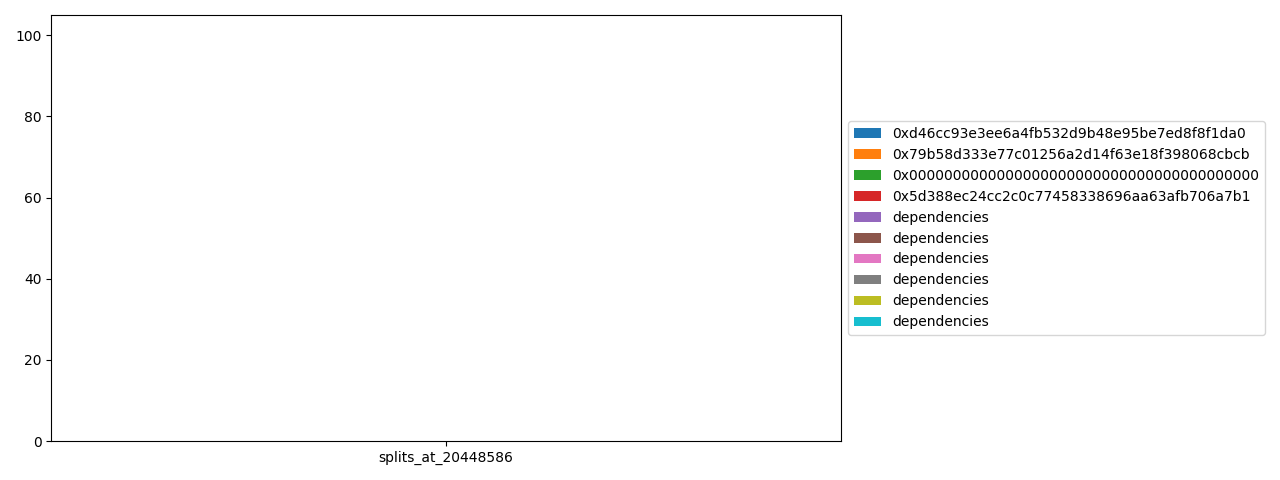
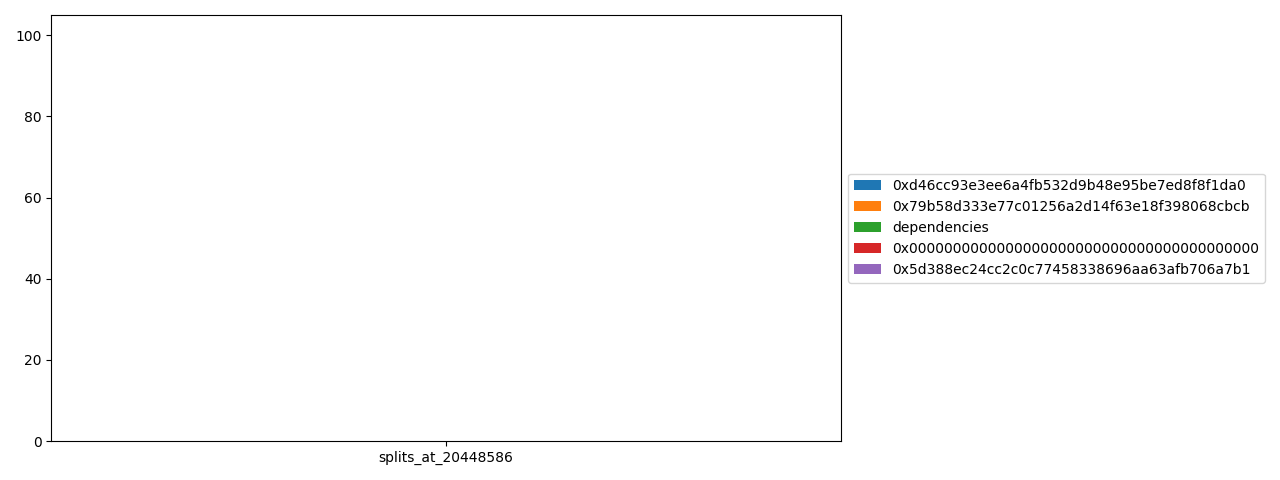
merge dependencies into one group
#55

Changed region(s): [[0.6562, 0.25, 1.0, 0.6875]]

diff --git a/drips/charts/generate-charts.py b/drips/charts/generate-charts.py
@@ -78,21 +78,28 @@ for repo in repos:
     print('splits_csv.columns:', splits_csv.columns)
     print('splits_csv.columns[1:]:', splits_csv.columns[1:])
 
+
+    splits_set_event_blocks = splits_csv.columns[1:].values
+    # print('splits_set_event_blocks:', splits_set_event_blocks)
+
+    splits_csv = splits_csv.apply(format_ethereum_address, axis='columns')
+    # print('splits_csv: \n', splits_csv)
+    splits_csv = splits_csv.groupby('ethereum_address')[splits_set_event_blocks].sum()
+    # print('splits_csv: \n', splits_csv)
+    splits_csv = splits_csv.reset_index()
+    # print('splits_csv: \n', splits_csv)
+    
     # Sort values based on the most recent split event
     last_column = splits_csv.columns[-1]
-    print('last_column:', last_column)
+    # print('last_column:', last_column)
     splits_csv = splits_csv.sort_values(by=last_column, ascending=False)
     print('splits_csv: \n', splits_csv)
 
-    splits_set_event_blocks = splits_csv.columns[1:].values
-    print('splits_set_event_blocks:', splits_set_event_blocks)
-
-    splits_csv = splits_csv.apply(format_ethereum_address, axis='columns')
-    ethereum_addresses = splits_csv['ethereum_address'].values
-    print('ethereum_addresses: \n', ethereum_addresses)
-
     impact_percentages = splits_csv[splits_set_event_blocks].values
     print('impact_percentages: \n', impact_percentages)
+
+    ethereum_addresses = splits_csv['ethereum_address'].values
+    print('ethereum_addresses: \n', ethereum_addresses)
 
     plt.figure(figsize=(12.8, 4.8))
     plt.stackplot(splits_set_event_blocks, impact_percentages, labels=ethereum_addresses)
